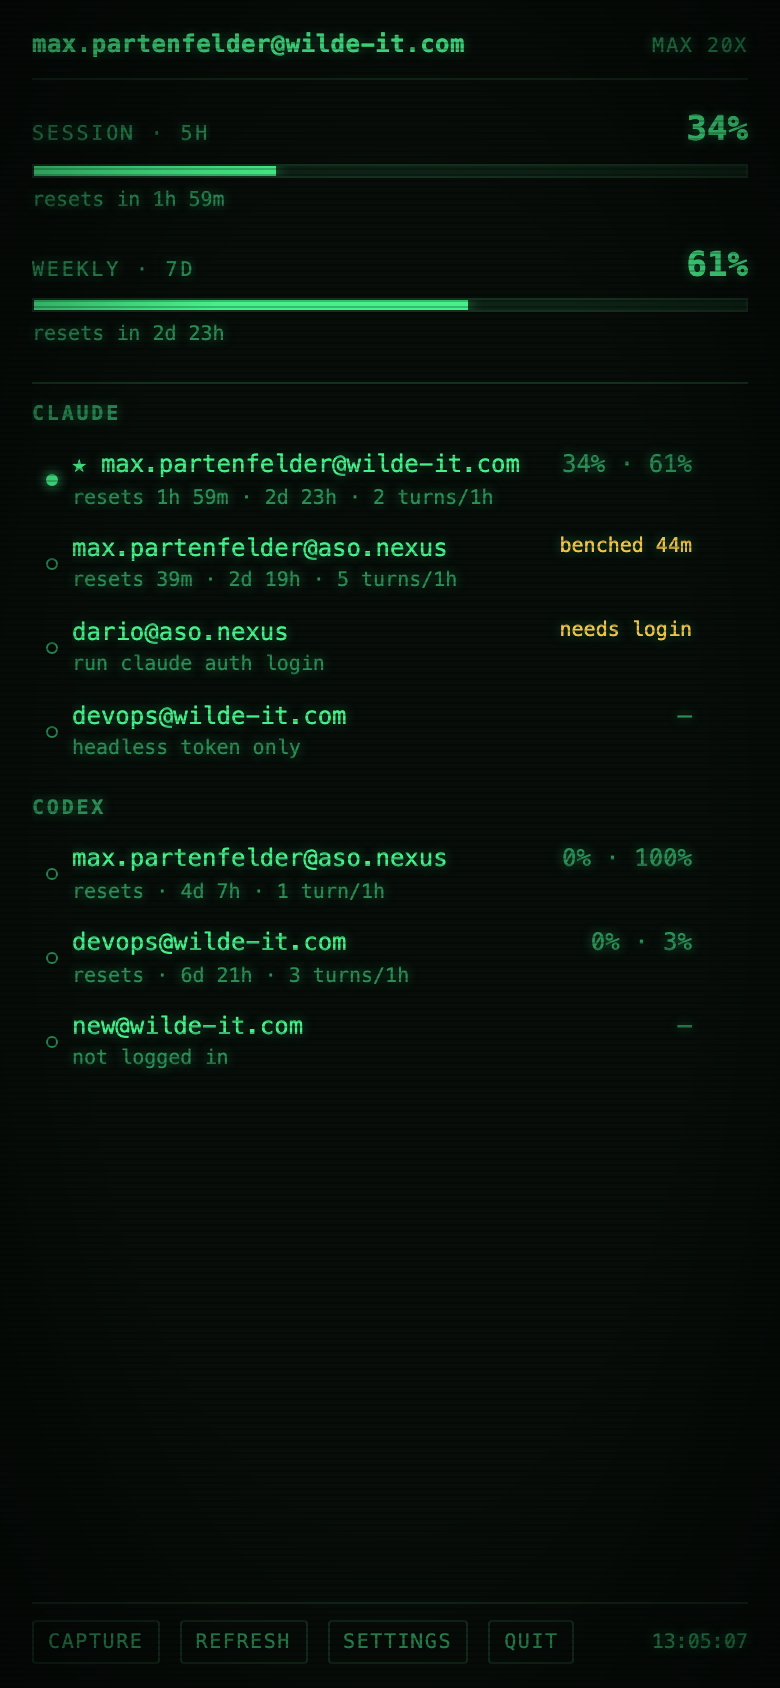
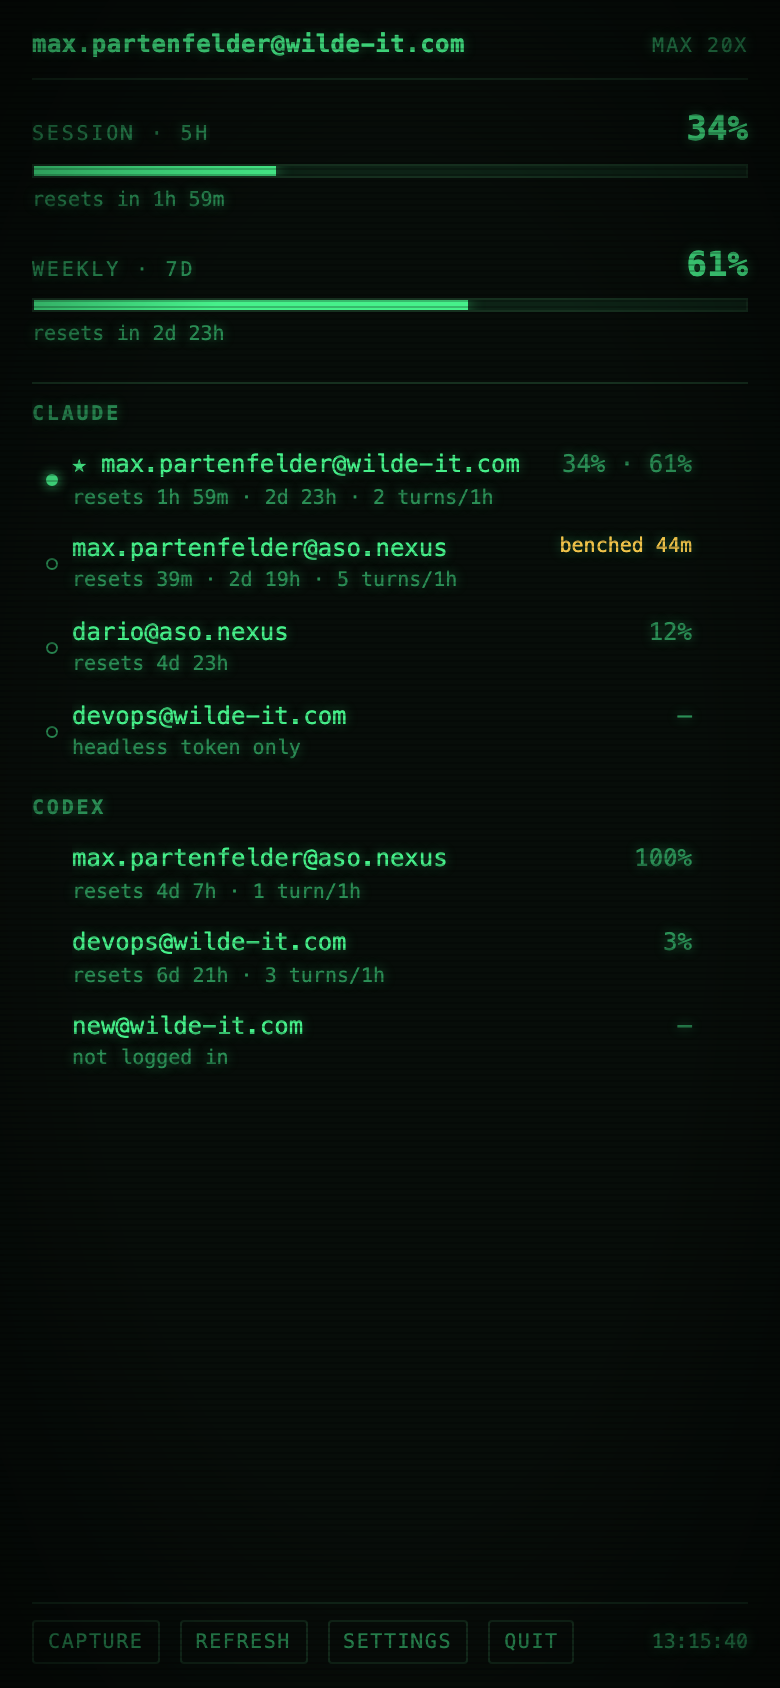
docs: round 2 review of codex-accounts, screens re-shot after the fix commit

diff --git a/docs/plan/impl/codex-accounts-review.md b/docs/plan/impl/codex-accounts-review.md
@@ -4,6 +4,9 @@ Task `aso/vibemon/codex-accounts`, branch `task/codex-accounts` (`a27e0ed..205b6
 `main`), reviewed 11.09.2026 against `docs/plan/impl/codex-accounts.md`.
 Reviewer: Fable 5.1. Codex round 1: gpt-6-astra high, ran to completion (no quota limit), verdict
 REJECT with 3 MAJOR and 2 MINOR; all five were re-verified by hand below, one reclassified.
+Round 2 (re-review of fix commit `16dc5cc`, 11.09.2026 13:15): Codex round 2 ran to completion,
+two MINOR, see "Round 2" at the end. Final verdict APPROVE with three open MINORs for a
+follow-up commit.
 Findings are also in `/Users/mapa/.riker/run/aso/vibemon/codex-accounts/findings.json` for inline
 comments. Screenshots: `docs/plan/impl/screens/codex-accounts/`.
 
@@ -19,15 +22,13 @@ real Codex limit and 401 lines through `classify` and `parseReset`, kind-partiti
 the fail-closed case, and the headless rerun asserting `CODEX_HOME` per attempt and no
 `OPENAI_API_KEY` on the child.
 
-It is rejected for one reason: `vibemon codex add` can move a directory that CLAUDE.md says is
-never moved. `codexHome(email)` joins the typed argument onto `~/.vibemon/codex` without
-validation, so `vibemon codex add ../../.codex` resolves to `~/.codex` (verified with
-`filepath.Join`), and the mismatch branch then renames that home to the reported email's canonical
-path whenever that path does not exist yet. On this machine the aso home exists and the command
-errors out, but on any other machine, or for a third account, it relocates the interactive login.
-The same branch renames an existing per-account home when the browser signs into a different
-account than the one asked for, which the plan said to reject. Both close with one guard (validate
-the email, rename only the temporary `.login-<pid>` home) and one test. Nothing else blocks.
+Round 1 rejected it for one reason: `vibemon codex add` could move a directory CLAUDE.md says is
+never moved (typed email used as a path segment, plus a rename of a user-named home on a mismatched
+login). Commit `16dc5cc` closes both with `codexEmailOK` and `placeCodexHome`, each with a test that
+pins the concrete `../../.codex` traversal, and answers every other round 1 finding. Round 2
+verified each resolution in code and in the re-shot screens, reran the gates (all green, 19
+Codex-related tests pass) and found three MINORs, none a correctness or security defect, each a
+one-line fix. Approved; the three are listed under "Round 2" for the follow-up.
 
 ## Findings
 
@@ -134,4 +135,51 @@ finding is addressed in code or docs.
 - Impeccable ran degraded (single context, detector inline) because the reviewer role writes only
   the review file and screenshots; the design findings above are the reviewer's own.
 
-VERDICT: REJECT
+## Round 2 (re-review of `16dc5cc`)
+
+Every round 1 resolution verified, in code and by rerunning the gates and re-shooting the screens:
+
+- Traversal (MAJOR): `codexEmailOK` runs on the typed argument, the reported address and inside
+  `placeCodexHome`; `TestCodexEmailOK` asserts the guard list and that `codexHome("../../.codex")`
+  still resolves to the parent's `.codex`, so the test fails the day the guard becomes moot.
+  Verified fixed.
+- Rename of a named home (MAJOR): `placeCodexHome(home, temporary, reported, asked)` returns the
+  plan's error on mismatch and moves only a `.login-<pid>` home, never over an existing one;
+  `TestPlaceCodexHome` covers match, mismatch with the named home still on disk, move, collision
+  and a traversing address. `registerCodex` keeps its own mismatch check as a second fence.
+  Verified fixed.
+- `findByEmail` order (MINOR): address scan first, exact key as fallback; the stub case is in
+  `TestFindByEmailAcrossKinds` and `codex:a@x.io` still resolves by key. Verified fixed.
+- Vault lock across login (MINOR): `lockVault()` now sits directly before `loadVault` and covers
+  only that and `registerCodex`. Verified fixed.
+- Order append on re-registration (MINOR): `registerCodex` appends only when the key was not in
+  the vault. Verified fixed in code; not covered by a test (see round 2 finding 2).
+- Temporary home cleanup (MINOR): one `defer` removes a temporary home on every path that does not
+  file it and says so on stderr when it discards a working login. Verified fixed for every path
+  the process lives through (see round 2 finding 1 for the one it does not).
+- 5-day JWT (MINOR): added to the CLAUDE.md unverified list with the mechanism and the self-heal
+  path. Verified documented.
+- Stray separator, hollow dot, `ChatGPT · ` (DESIGN): re-shot at 390px and 1440px; a spent Codex
+  row now reads `100%` with `resets 4d 7h`, the dot is hidden, the plan reads `ChatGPT`. Verified
+  fixed.
+
+Gates: `go build`, `go vet`, `gofmt -l` empty, `go test -count=1 ./...` passes.
+
+Codex round 2 (gpt-6-astra high, exit 0, verdict REJECT on two MINORs): both confirmed as stated,
+neither blocks. Open findings after round 2, all MINOR, for one follow-up commit:
+
+- **MINOR** `frontend/index.html:201` - the "leave out a window the account does not have" rule
+  keys on `percent > 0 || resetsAt`, so a Claude row whose 5 h window is idle and carries no reset
+  time now reads `12%` alone while its neighbours read `34% · 61%`; the single number is ambiguous
+  (session or weekly?) and the Claude group loses its uniform shape. Fix: apply the omission only
+  for `a.kind === 'codex'`; Claude always has both windows.
+- **MINOR** `main.go:211` - Ctrl-C during the browser login kills vibemon and the child
+  together, and a signal does not run the cleanup defer, so `.login-<pid>` stays behind (without a
+  login, since the flow never finished). Fix: sweep stale `.login-*` directories at the start of a
+  bare `codex add`, which is smaller than a signal handler and also catches a crash. (Codex r2.)
+- **MINOR** `codex.go:319` - the first-registration-only append to `codexOrder` has no test.
+  `registerCodex` writes the vault through the keychain, which is why none exists; if a test is
+  wanted, lift the `known` decision into a small pure helper and test that. Accepted without a
+  test for now. (Codex r2.)
+
+VERDICT: APPROVE
